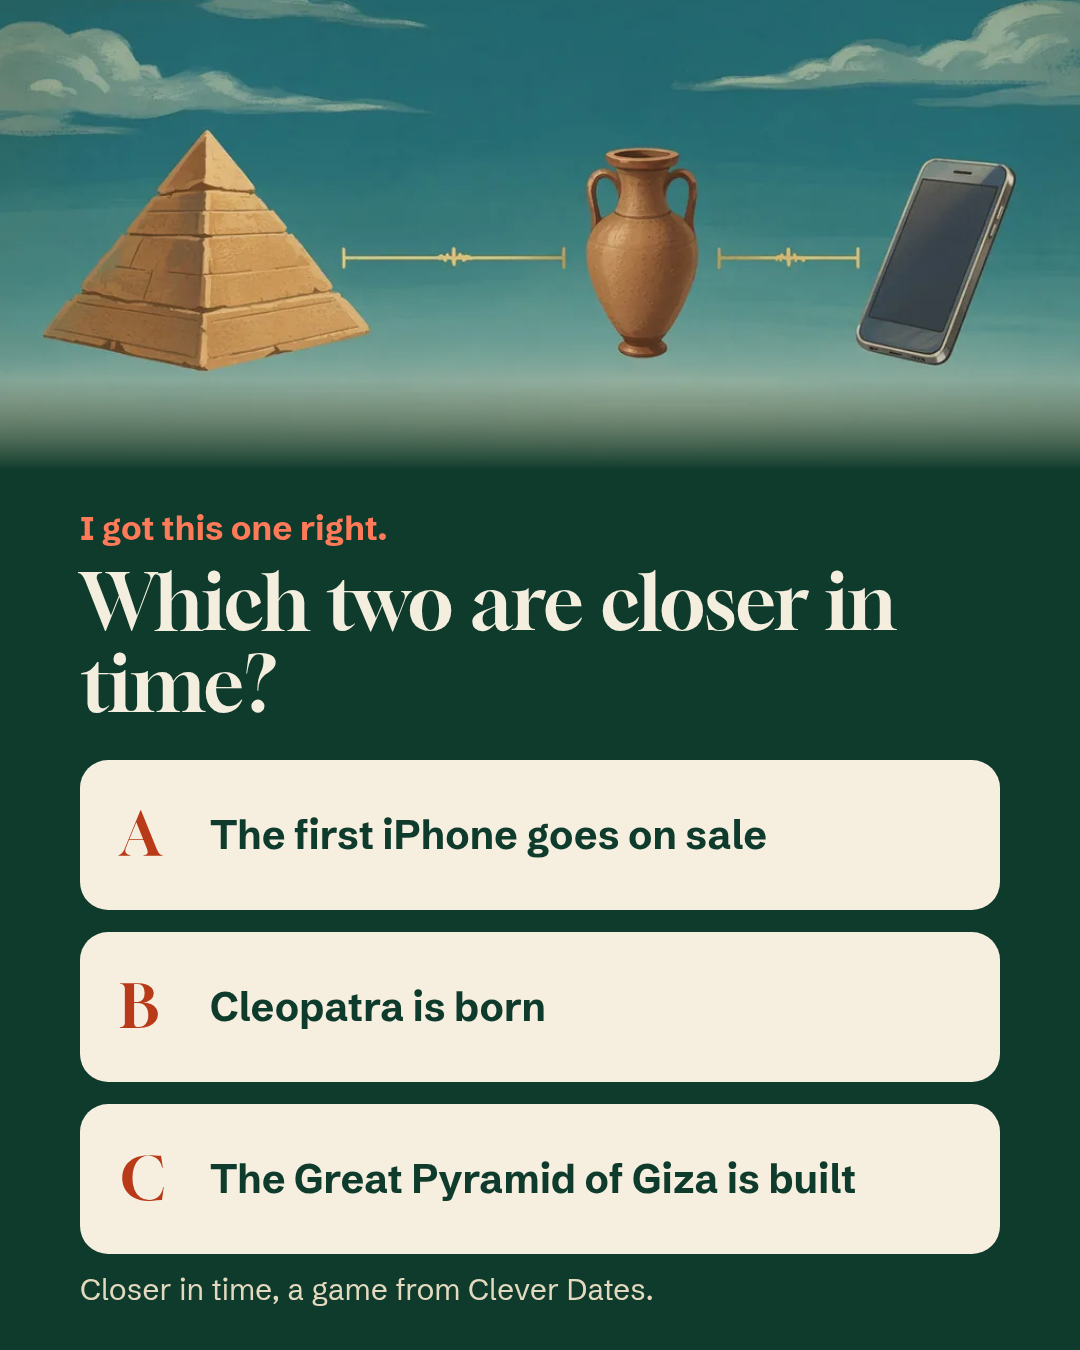
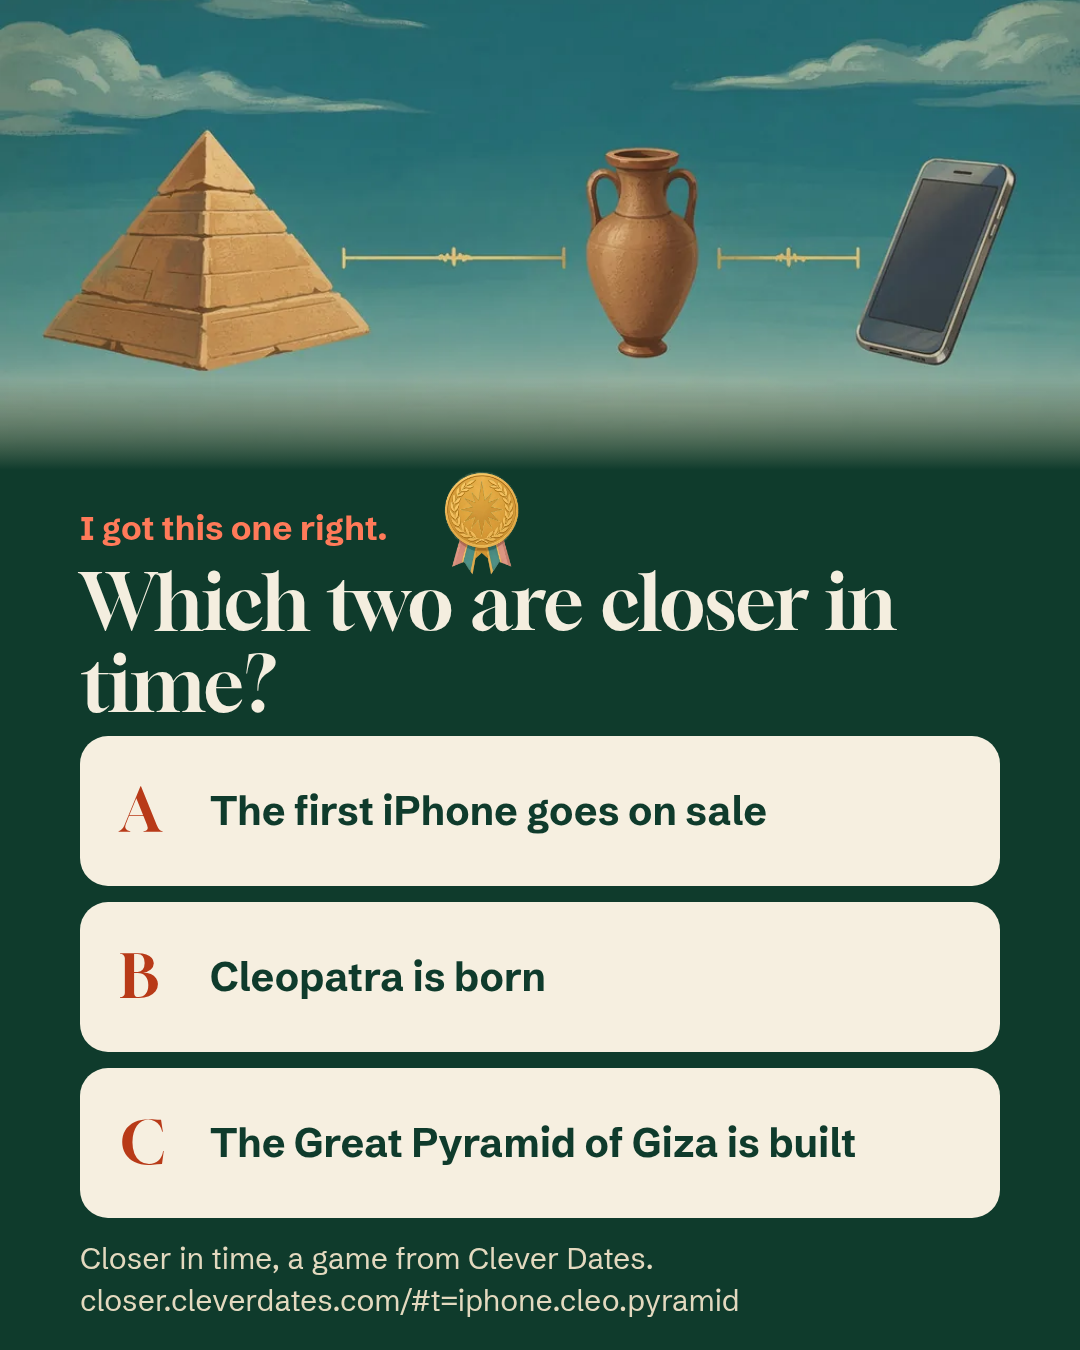
Share card: keep the footer clear of the last option box
The third answer box ran 15px into the credit line (box bottom 1254, line top 1239). Start the stack higher, tighten the gaps, and place the footer under the last box. e2e asserts the gap on a teaser, a short-name trio, and the longest names.

Changed region(s): [[0.0611, 0.5289, 0.9472, 0.9956], [0.3972, 0.3422, 0.4889, 0.4356]]

diff --git a/docs/app.js b/docs/app.js
@@ -213,25 +213,40 @@
         g.drawImage(seal, sx, sy, sw, sw);
       }
     }
+    const layout = { boxes: [], texts: [] };
+    const rec = (s, x, y) => {
+      const m = g.measureText(s);
+      const t = { s, x, y, w: m.width, top: y - (m.actualBoundingBoxAscent || 0), bottom: y + (m.actualBoundingBoxDescent || 0) };
+      layout.texts.push(t);
+      g.fillText(s, x, y);
+      return t;
+    };
     g.fillStyle = '#f4eedf'; g.font = `400 76px ${serif}`;
     wrap(g, 'Which two are closer in time?', 80, 630, W - 160, 82);
-    let y = 760;
+    // The title is two lines (baselines 630 and 712). Fit the three option
+    // boxes under it, leaving a reserved footer band so the last box cannot
+    // cover the credit line (it used to end at 1254, 15px into that line).
+    const boxH = 150, boxGap = 16, startY = 736;
+    let y = startY;
     cur.ids.forEach((id, k) => {
-      const h = 150;
-      g.fillStyle = '#f6efe0'; rr(g, 80, y, W - 160, h, 28); g.fill();
-      g.fillStyle = '#b83a18'; g.font = `400 60px ${serif}`; g.fillText('ABC'[k], 120, y + 96);
+      g.fillStyle = '#f6efe0'; rr(g, 80, y, W - 160, boxH, 28); g.fill();
+      layout.boxes.push({ x: 80, y, w: W - 160, h: boxH });
+      g.fillStyle = '#b83a18'; g.font = `400 60px ${serif}`; rec('ABC'[k], 120, y + 96);
       g.fillStyle = '#0f3b2c'; g.font = `700 40px ${sans}`;
       const lines = lines2(g, EV[id].name, W - 160 - 160);
-      lines.forEach((ln, j) => g.fillText(ln, 210, y + h / 2 + 14 - (lines.length - 1) * 23 + j * 46));
-      y += h + 22;
+      lines.forEach((ln, j) => rec(ln, 210, y + boxH / 2 + 14 - (lines.length - 1) * 23 + j * 46));
+      y += boxH + boxGap;
     });
+    const lastBottom = layout.boxes.at(-1).y + layout.boxes.at(-1).h;
     g.fillStyle = '#e3d9bf'; g.font = `400 30px ${sans}`;
-    g.fillText('Closer in time, a game from Clever Dates.', 80, H - 88);
+    const credit = rec('Closer in time, a game from Clever Dates.', 80, lastBottom + 28 + 23);
     const foot = publicLink(cur && cur.ids ? '#t=' + cur.ids.join('.') : '').replace(/^https?:\/\//, '');
     if (g.measureText(foot).width > W - 160) g.font = `400 26px ${sans}`;
-    g.fillText(foot, 80, H - 46);
+    rec(foot, 80, credit.y + 42);
+    lastLayout = layout;
     return c;
   }
+  let lastLayout = null;
   let artP = null, sealP = {};
   function loadArt() { return artP || (artP = new Promise((r) => { const i = new Image(); i.onload = () => r(i); i.onerror = () => r(null); i.src = 'art/card-r3.webp'; })); }
   function loadSeal(ok) {
@@ -246,6 +261,7 @@
   }
   function wrap(g, text, x, y, max, lh) { lines2(g, text, max).forEach((ln, i) => g.fillText(ln, x, y + i * lh)); }
   window.__c6card = async () => (await card()).toDataURL('image/png');
+  window.__c6cardLayout = async () => { const c = await card(); return lastLayout; };
   $('card-btn').addEventListener('click', async () => {
     const c = await card();
     c.toBlob((blob) => {

diff --git a/src/app.js b/src/app.js
@@ -213,25 +213,40 @@
         g.drawImage(seal, sx, sy, sw, sw);
       }
     }
+    const layout = { boxes: [], texts: [] };
+    const rec = (s, x, y) => {
+      const m = g.measureText(s);
+      const t = { s, x, y, w: m.width, top: y - (m.actualBoundingBoxAscent || 0), bottom: y + (m.actualBoundingBoxDescent || 0) };
+      layout.texts.push(t);
+      g.fillText(s, x, y);
+      return t;
+    };
     g.fillStyle = '#f4eedf'; g.font = `400 76px ${serif}`;
     wrap(g, 'Which two are closer in time?', 80, 630, W - 160, 82);
-    let y = 760;
+    // The title is two lines (baselines 630 and 712). Fit the three option
+    // boxes under it, leaving a reserved footer band so the last box cannot
+    // cover the credit line (it used to end at 1254, 15px into that line).
+    const boxH = 150, boxGap = 16, startY = 736;
+    let y = startY;
     cur.ids.forEach((id, k) => {
-      const h = 150;
-      g.fillStyle = '#f6efe0'; rr(g, 80, y, W - 160, h, 28); g.fill();
-      g.fillStyle = '#b83a18'; g.font = `400 60px ${serif}`; g.fillText('ABC'[k], 120, y + 96);
+      g.fillStyle = '#f6efe0'; rr(g, 80, y, W - 160, boxH, 28); g.fill();
+      layout.boxes.push({ x: 80, y, w: W - 160, h: boxH });
+      g.fillStyle = '#b83a18'; g.font = `400 60px ${serif}`; rec('ABC'[k], 120, y + 96);
       g.fillStyle = '#0f3b2c'; g.font = `700 40px ${sans}`;
       const lines = lines2(g, EV[id].name, W - 160 - 160);
-      lines.forEach((ln, j) => g.fillText(ln, 210, y + h / 2 + 14 - (lines.length - 1) * 23 + j * 46));
-      y += h + 22;
+      lines.forEach((ln, j) => rec(ln, 210, y + boxH / 2 + 14 - (lines.length - 1) * 23 + j * 46));
+      y += boxH + boxGap;
     });
+    const lastBottom = layout.boxes.at(-1).y + layout.boxes.at(-1).h;
     g.fillStyle = '#e3d9bf'; g.font = `400 30px ${sans}`;
-    g.fillText('Closer in time, a game from Clever Dates.', 80, H - 88);
+    const credit = rec('Closer in time, a game from Clever Dates.', 80, lastBottom + 28 + 23);
     const foot = publicLink(cur && cur.ids ? '#t=' + cur.ids.join('.') : '').replace(/^https?:\/\//, '');
     if (g.measureText(foot).width > W - 160) g.font = `400 26px ${sans}`;
-    g.fillText(foot, 80, H - 46);
+    rec(foot, 80, credit.y + 42);
+    lastLayout = layout;
     return c;
   }
+  let lastLayout = null;
   let artP = null, sealP = {};
   function loadArt() { return artP || (artP = new Promise((r) => { const i = new Image(); i.onload = () => r(i); i.onerror = () => r(null); i.src = 'art/card-r3.webp'; })); }
   function loadSeal(ok) {
@@ -246,6 +261,7 @@
   }
   function wrap(g, text, x, y, max, lh) { lines2(g, text, max).forEach((ln, i) => g.fillText(ln, x, y + i * lh)); }
   window.__c6card = async () => (await card()).toDataURL('image/png');
+  window.__c6cardLayout = async () => { const c = await card(); return lastLayout; };
   $('card-btn').addEventListener('click', async () => {
     const c = await card();
     c.toBlob((blob) => {

diff --git a/LOG.md b/LOG.md
@@ -86,3 +86,9 @@ Cream chroma-key, no text on the medals. Local gate: qa/local-r4/.
 ## 2026-11-25 10:05 AM CT: r3 art (C6)
 
 Commit 016ce90 (pushed). Share card ground wired from card-r3.webp; the on-page reveal strip was cut (a static trio picture would mislead on most rounds); the hook stays off the card. Card art is generic across trios (question open in STATUS.md). Live e2e ALL PASS (159), live gate PASS, Lighthouse 100, impeccable 0.
+
+## 2026-11-25 ~4:50 PM CT: share-card footer no longer under the last option box
+
+Barker's live check (launch-venues-2026-11-25.md §3): the third answer box covered half of "Closer in time, a game from Clever Dates." Reproduced on https://closer.cleverdates.com (pinned Chrome, default trio iphone.cleo.pyramid): the last box ended at y=1254 and the credit line's top was at y=1239 (15px overlap). The boxes started at a fixed y=760 with 150px height and 22px gaps, and the footer was pinned to H-88, so three boxes always ran into it.
+
+Fix: start the stack at y=736, 16px gaps, and place the footer 28px under the last box (plus a layout object for tests). e2e now asserts a >=16px gap and that the footer stays on the card, on the teaser, after a right answer, a short-name trio, and the longest names. Local e2e ALL PASS. The e2e localhost canonical expectation was also updated from the old github.io preview URL to closer.cleverdates.com, matching the go-live publicLink fallback.
